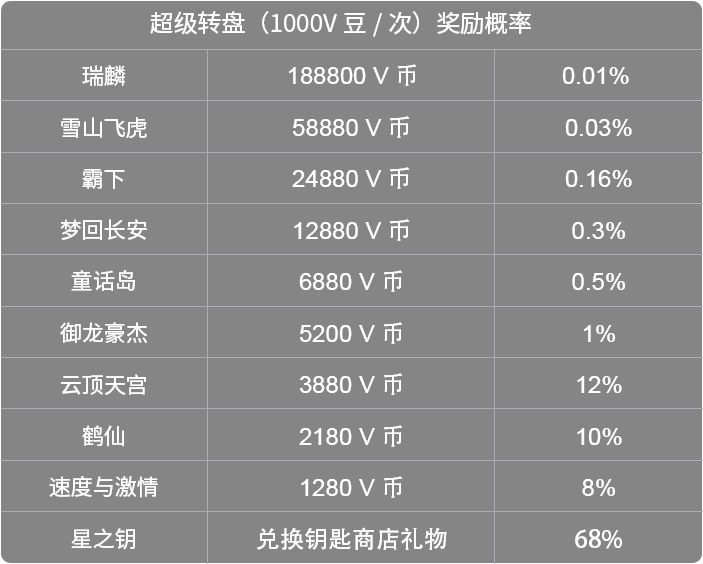
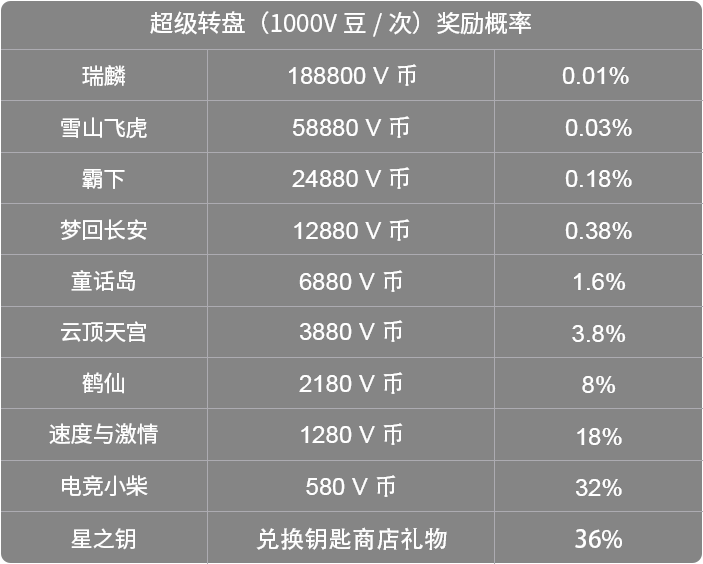
0

diff --git a/lib/pages/room/room_page.dart b/lib/pages/room/room_page.dart
@@ -624,6 +624,13 @@ class _RoomPageState extends State<RoomPage>
             //订阅所有远端用户的音频流。
             _engine.muteAllRemoteAudioStreams(false);
             if (isJinyiin == false) {
+              // 启用音频模块
+              _engine.enableAudio();
+              // 发声音发音频流
+              _engine.enableLocalAudio(true);
+              //设置成主播
+              _engine.setClientRole(
+                  role: ClientRoleType.clientRoleBroadcaster);
               // 发布本地音频流
               _engine.muteLocalAudioStream(false);
             }
@@ -926,9 +933,9 @@ class _RoomPageState extends State<RoomPage>
               } else {
                 isMeUp = true;
                 mxIndex = event.map!['serial_number'].toString();
-                LogE('开麦状态== ${event.map!['is_lock'].toString() == '0'}');
-                LogE('开麦状态== ${event.map!['is_lock'].toString()}');
-                if(event.map!['is_lock'].toString() == '0'){
+                LogE('开麦状态== ${event.map!['is_close'].toString() == '0'}');
+                LogE('开麦状态== ${event.map!['is_close'].toString()}');
+                if(event.map!['is_close'].toString() == '0'){
                   setState(() {
                     isJinyiin = false;
                   });
@@ -1571,7 +1578,8 @@ class _RoomPageState extends State<RoomPage>
                 // list2.add(map);
               });
               WidgetsBinding.instance!.addPostFrameCallback((_) {
-                scrollToLastItem2(); // 在widget构建完成后滚动到底部
+                // scrollToLastItem2(); // 在widget构建完成后滚动到底部
+                scrollToLastItem();
               });
             } else if (event.map!['type'] == 'send_all_user') {
               // 是这个厅，并送了带横幅的礼物
@@ -1691,7 +1699,8 @@ class _RoomPageState extends State<RoomPage>
               });
 
               WidgetsBinding.instance!.addPostFrameCallback((_) {
-                scrollToLastItem2(); // 在widget构建完成后滚动到底部
+                // scrollToLastItem2(); // 在widget构建完成后滚动到底部
+                scrollToLastItem();
               });
             } else if (event.map!['type'] == 'send_screen_all') {
               // 厅内送礼
@@ -2174,7 +2183,7 @@ class _RoomPageState extends State<RoomPage>
     Directory? directory = await getExternalStorageDirectory();
     LogE('获取保存路径 $directory');
     String savePath =
-        "/sdcard/Android/data/com.leimu.yuyinting/files/${lujing[lujing.length - 1]}";
+        "/sdcard/Android/data/com.cv.gc.yyt/files/${lujing[lujing.length - 1]}";
     LogE('礼物地址 $savePath');
     if (listUrl.isEmpty) {
       setState(() {
@@ -2423,7 +2432,7 @@ class _RoomPageState extends State<RoomPage>
   }
 
   final ScrollController _scrollController = ScrollController();
-  final ScrollController _scrollController2 = ScrollController();
+  // final ScrollController _scrollController2 = ScrollController();
 
   // 在数据变化后将滚动位置设置为最后一个item的位置
   void scrollToLastItem() {
@@ -2434,14 +2443,14 @@ class _RoomPageState extends State<RoomPage>
     );
   }
 
-  // 在数据变化后将滚动位置设置为最后一个item的位置
-  void scrollToLastItem2() {
-    _scrollController2.animateTo(
-      _scrollController2.position.maxScrollExtent,
-      duration: const Duration(milliseconds: 100),
-      curve: Curves.easeInOut,
-    );
-  }
+  // // 在数据变化后将滚动位置设置为最后一个item的位置
+  // void scrollToLastItem2() {
+  //   _scrollController2.animateTo(
+  //     _scrollController2.position.maxScrollExtent,
+  //     duration: const Duration(milliseconds: 100),
+  //     curve: Curves.easeInOut,
+  //   );
+  // }
 
   @override
   void dispose() {
@@ -2457,7 +2466,7 @@ class _RoomPageState extends State<RoomPage>
     listenSend.cancel();
     listenSendImg.cancel();
     _scrollController.dispose();
-    _scrollController2.dispose();
+    // _scrollController2.dispose();
     listenPeople.cancel();
     listenBig.cancel();
     listenSVGA.cancel();

diff --git a/lib/utils/widget_utils.dart b/lib/utils/widget_utils.dart
@@ -628,7 +628,7 @@ class WidgetUtils {
       ),
       child: imgUrl.isNotEmpty
           ? ClipOval(
-              child: imgUrl.contains('com.leimu.yuyinting') ||
+              child: imgUrl.contains('com.cv.gc.yyt') ||
                       imgUrl.contains('storage')
                   ? Image.file(
                       File(imgUrl),
@@ -741,7 +741,7 @@ class WidgetUtils {
       decoration: BoxDecoration(
         borderRadius: BorderRadius.circular(radius),
       ),
-      child: url.contains('com.leimu.yuyinting') || url.contains('storage')
+      child: url.contains('com.cv.gc.yyt') || url.contains('storage')
           ? Image.file(
               File(url),
               fit: BoxFit.cover,
@@ -788,7 +788,7 @@ class WidgetUtils {
       decoration: BoxDecoration(
         borderRadius: BorderRadius.circular(radius),
       ),
-      child: (url.contains('com.leimu.yuyinting') || url.contains('storage'))
+      child: (url.contains('com.cv.gc.yyt') || url.contains('storage'))
           ? Image.file(
               File(url),
               fit: BoxFit.fill,
@@ -817,7 +817,7 @@ class WidgetUtils {
       decoration: BoxDecoration(
         borderRadius: BorderRadius.circular(radius),
       ),
-      child: (url.contains('com.leimu.yuyinting') || url.contains('storage'))
+      child: (url.contains('com.cv.gc.yyt') || url.contains('storage'))
           ? Image.file(
               File(url),
               fit: BoxFit.cover,
@@ -909,7 +909,7 @@ class WidgetUtils {
 
   ///展示图片使用
   static Widget showImages(String url, double height, double width) {
-    return url.contains('com.leimu.yuyinting') || url.contains('storage')
+    return url.contains('com.cv.gc.yyt') || url.contains('storage')
         ? Image.file(
             File(url),
             fit: BoxFit.fill,

diff --git a/lib/pages/room/room_messages_more_page.dart b/lib/pages/room/room_messages_more_page.dart
@@ -296,7 +296,7 @@ class _RoomMessagesMorePageState extends State<RoomMessagesMorePage> {
                                       child: (allData2[i]['content']
                                                   .toString()
                                                   .contains(
-                                                      'com.leimu.yuyinting') ||
+                                                      'com.cv.gc.yyt') ||
                                               allData2[i]['content']
                                                   .toString()
                                                   .contains('storage'))

diff --git a/lib/widget/SwiperPage.dart b/lib/widget/SwiperPage.dart
@@ -39,7 +39,7 @@ class _SwiperPageState extends State<SwiperPage> {
           itemBuilder: (BuildContext context, int index) {
             return SizedBox(
                 width: double.infinity,
-                child: (widget.imgList[index].contains('com.leimu.yuyinting') ||
+                child: (widget.imgList[index].contains('com.cv.gc.yyt') ||
                         widget.imgList[index].contains('storage'))
                     ? Image.file(
                         File(widget.imgList[index].toString()),

diff --git a/lib/pages/home/home_page.dart b/lib/pages/home/home_page.dart
@@ -531,9 +531,9 @@ class _HomePageState extends State<HomePage>
     String path = '';
     if (Platform.isAndroid) {
       if(type==1){
-        path = '/sdcard/Android/data/com.leimu.yuyinting/files/agorasdk.log';
+        path = '/sdcard/Android/data/com.cv.gc.yyt/files/agorasdk.log';
       }else{
-        path = '/sdcard/Android/data/com.leimu.yuyinting/files/agoraapi.log';
+        path = '/sdcard/Android/data/com.cv.gc.yyt/files/agoraapi.log';
       }
       file = File(path);
       if (file.existsSync()) {

diff --git a/lib/pages/game/zhuanpan_super_page.dart b/lib/pages/game/zhuanpan_super_page.dart
@@ -732,7 +732,7 @@ class _ZhuanPanSuperPageState extends State<ZhuanPanSuperPage> with TickerProvid
                   int randomNumber = Random().nextInt(max - min) + min;
                   luckyName = randomNumber;
                   break;
-                case 8: // 御龙豪杰
+                case 5: // 电竞小柴
                   int min = 43;
                   int max = 54;
                   int randomNumber = Random().nextInt(max - min) + min;

diff --git a/lib/pages/message/chat_page.dart b/lib/pages/message/chat_page.dart
@@ -760,7 +760,7 @@ class _ChatPageState extends State<ChatPage> {
                     child:   (allData2[i]['content']
                         .toString()
                         .contains(
-                        'com.leimu.yuyinting') ||
+                        'com.cv.gc.yyt') ||
                         allData2[i]['content']
                             .toString()
                             .contains('storage'))

diff --git a/android/app/src/main/kotlin/com/leimu/yuyinting/MainActivity.kt b/android/app/src/main/kotlin/com/leimu/yuyinting/MainActivity.kt
@@ -1,4 +1,4 @@
-package com.leimu.yuyinting
+package com.cv.gc.yyt
 
 import io.flutter.embedding.android.FlutterActivity
 
